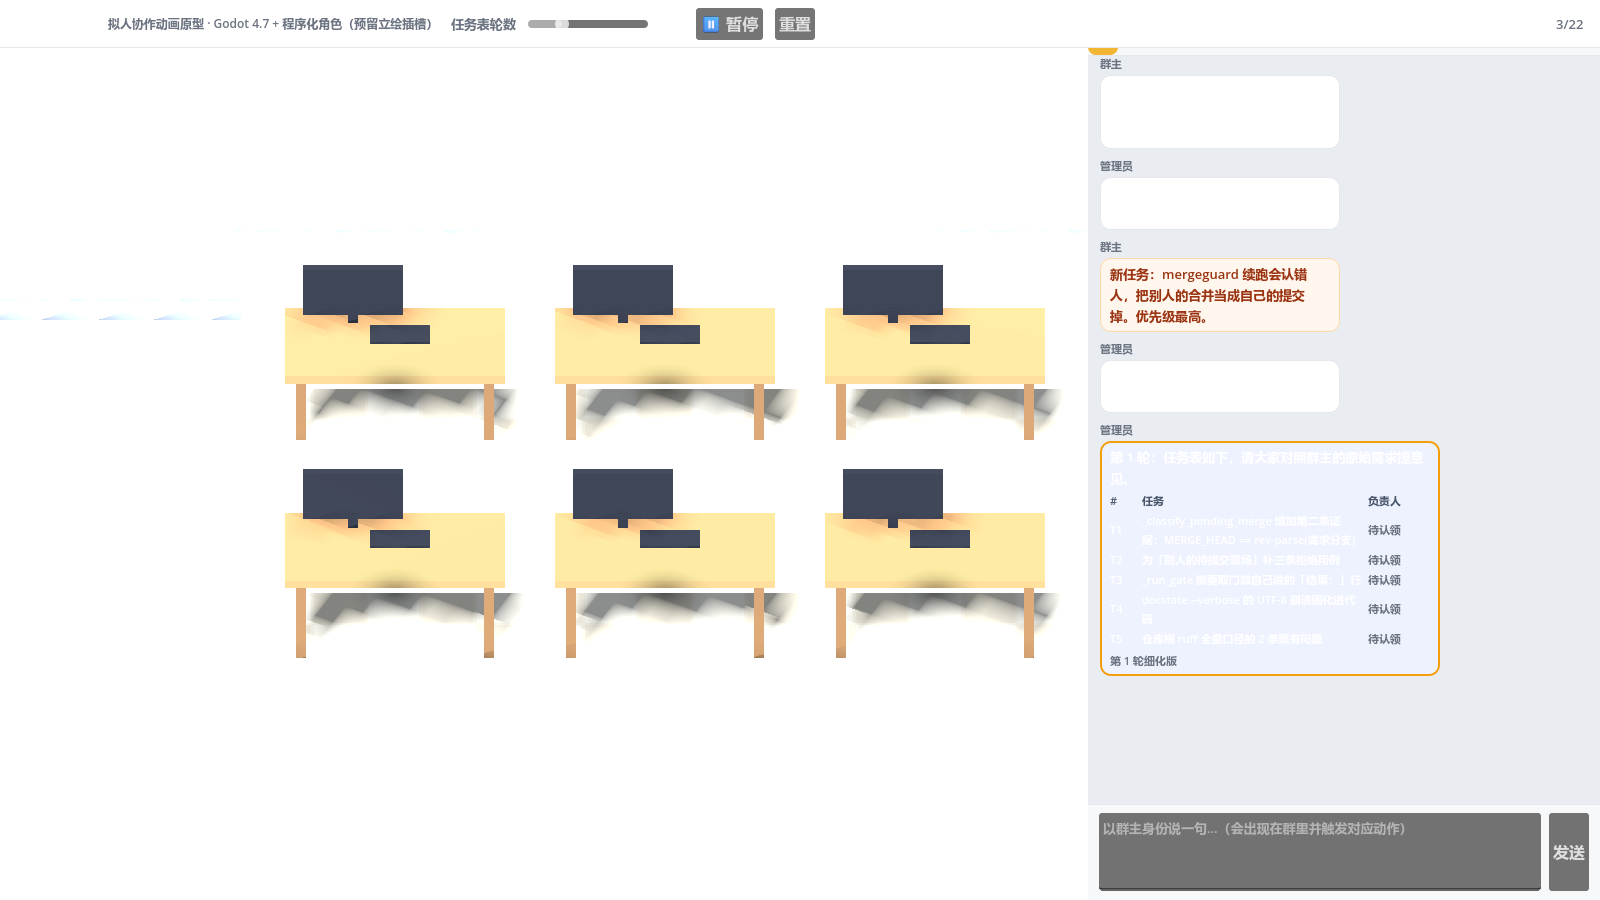
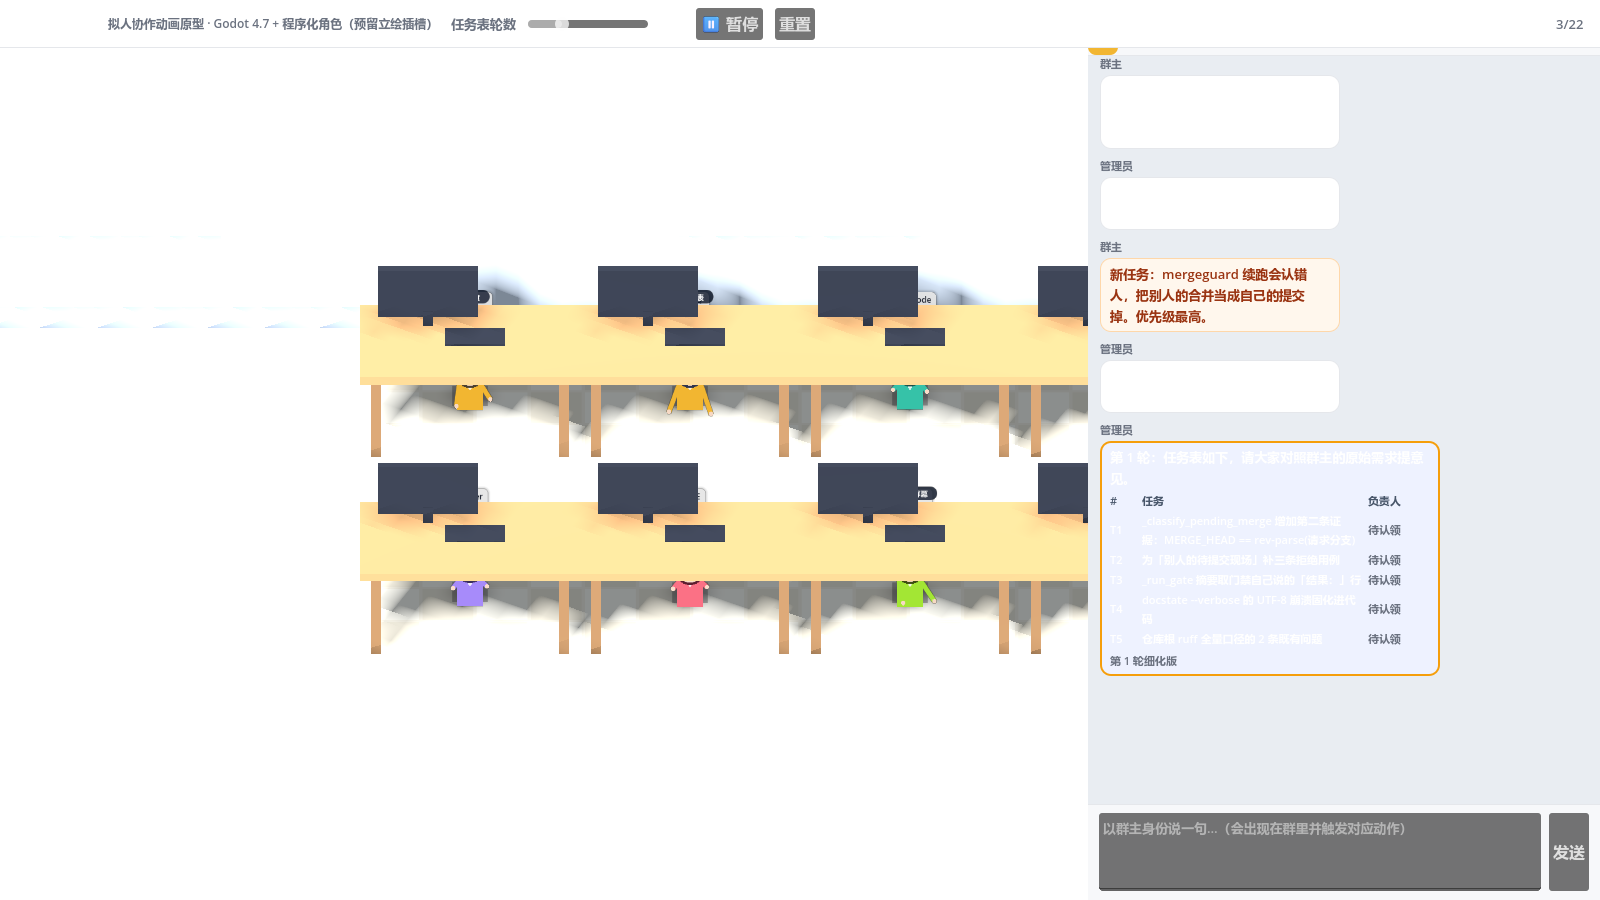
fix(office-anim): 修 2.5D 角色完全不显示等四个视觉 bug
用户截图反馈：**8 个角色全没了**，只剩桌子；取景太远、中间死区、
桌下阴影糊成黑团。

## 1. 角色完全不显示（最关键）

加了一个 `tools/dump3d.tscn` 专门转储 3D 场景，量出来：

    SubViewport size=(220,300) tex=(220,300)  非透明采样点 146/1850   ← 人画进视口了
    Sprite3D tex=true pixel_size=0.014 pos=(-6.61, 0.0, -0.45)      ← 但画面里没有人

**根因：我给 Sprite3D 设了 `material_override`，却没在里面设 `albedo_texture`。**
Sprite3D 的 `texture` 属性由**内置材质**采样；一旦覆盖材质，那张贴图就再也不
被读取，角色整个消失。删掉 material_override 即好。

这个 bug 的教训：转储脚本第一次也崩了（SubViewport 没有 `visible` 属性，
我却访问了它），所以什么都没看到。**"看不出来"和"没问题"是两件事。**

## 2. 面片尺寸与贴地

`pixel_size=0.014` → 面片高 4.2 世界单位，而桌子只有 1.05 高；且 Sprite3D
以节点原点为中心，角色从地板中间长出来、半截埋在地里。

改为 `PIXEL=0.0068`（约 1.5×2.0），并按
`y = (FEET_VP_Y - VP_H/2) * PIXEL` 抬高，让**脚跟**落在地板上。

## 3. 第 4 列工位被手机面板压住

正交 size=9 + 1600×900 → 横向 16 个世界单位。屏幕 68% 处的 design x
= `focus_x + 0.18*16`。原来 `focus_x=-2.56` → 分界线在 **0.32**，
而第 4 列工位在 x≈0.74 —— **整列跑到手机面板底下，凭空消失**。

改成 `FOCUS_X=-4.2`（分界线 -1.32，办公室右缘 0.2，安全），
并把列间距从 2.7 收到 2.2，办公室宽 8.8 正好填满左栏。

## 4. 接触阴影糊成一团

1.05×0.85 太大太浓，且 `no_depth_test=true` 让它**穿过桌子画到前面来**。
缩到 0.78×0.58、去掉 no_depth_test。

## 顺带：PowerShell 的 `-Encoding utf8` 是带 BOM 的

`dump3d.tscn` 用 `Set-Content -Encoding utf8` 生成，Godot 解析失败
（`Parse Error: Expected '['`）。PowerShell 5.1 的 `utf8` = UTF-8 **with BOM**。
改用 write 工具写，并加了一次全项目 BOM 扫描确认干净。

（同一个文件里 `[IO.File]::ReadAllBytes` 相对路径报"文件不存在"，也是坑：
它用**进程 CWD** 而不是 PowerShell 的当前目录。）

## 门禁

    docstate    exit=0   90 项检查，0 项失败
    discipline  exit=0   44 项检查，0 项失败
    Godot       --quit-after 150 0 错误
[…]

Changed region(s): [[0.1562, 0.28, 0.6875, 0.7467]]

diff --git a/docs/prototypes/office-anim/web/index.html b/docs/prototypes/office-anim/web/index.html
@@ -109,7 +109,7 @@ body {
 
 		<script src="index.js"></script>
 		<script>
-const GODOT_CONFIG = {"args":[],"canvasResizePolicy":2,"emscriptenPoolSize":8,"ensureCrossOriginIsolationHeaders":true,"executable":"index","experimentalVK":false,"fileSizes":{"index.pck":56920,"index.wasm":39514754},"focusCanvas":true,"gdextensionLibs":[],"godotPoolSize":4};
+const GODOT_CONFIG = {"args":[],"canvasResizePolicy":2,"emscriptenPoolSize":8,"ensureCrossOriginIsolationHeaders":true,"executable":"index","experimentalVK":false,"fileSizes":{"index.pck":60276,"index.wasm":39514754},"focusCanvas":true,"gdextensionLibs":[],"godotPoolSize":4};
 const GODOT_THREADS_ENABLED = false;
 const engine = new Engine(GODOT_CONFIG);
 
